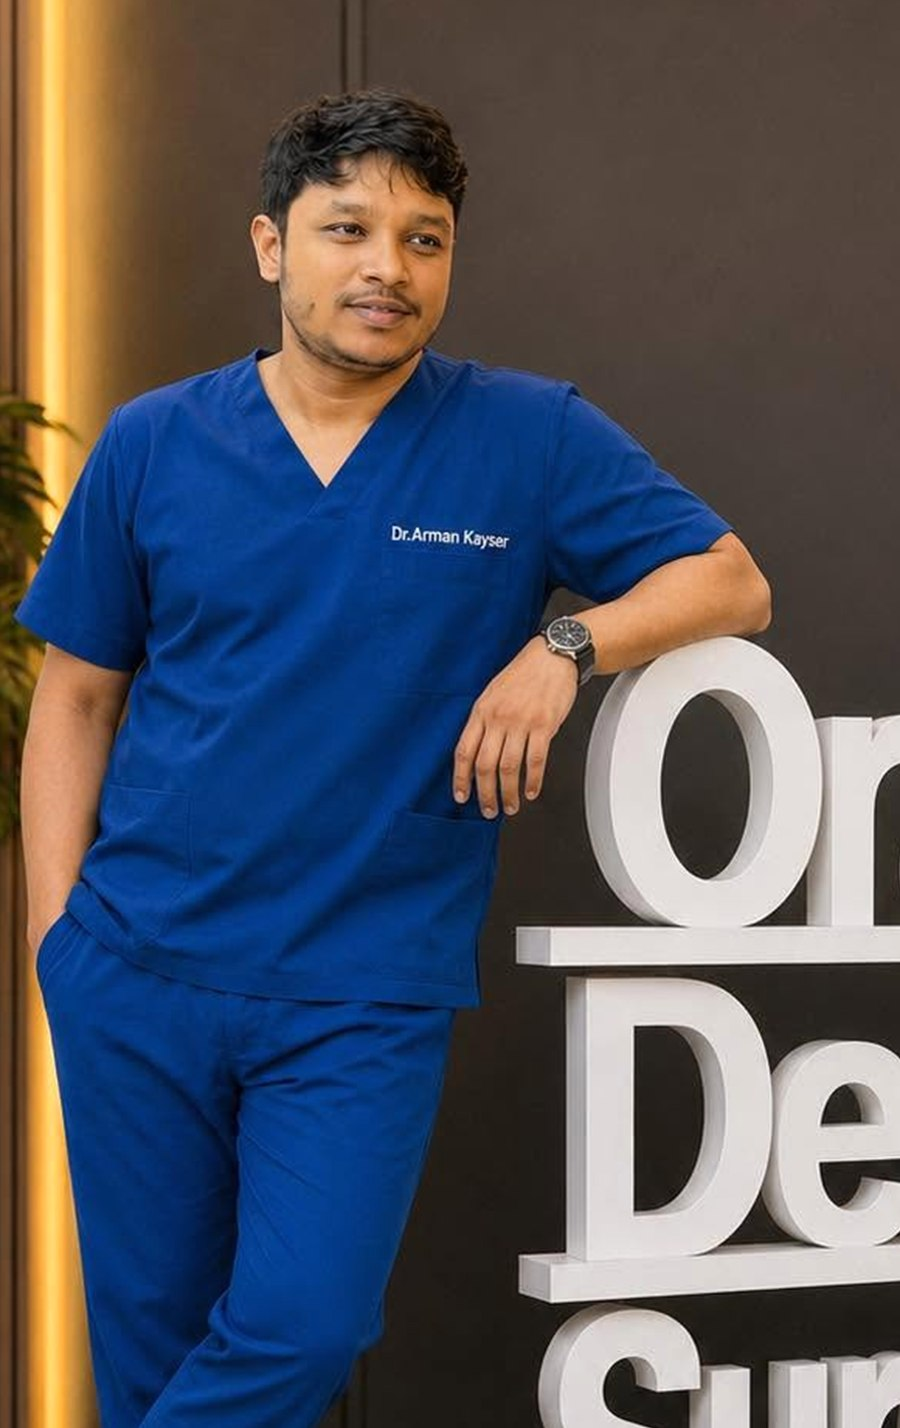
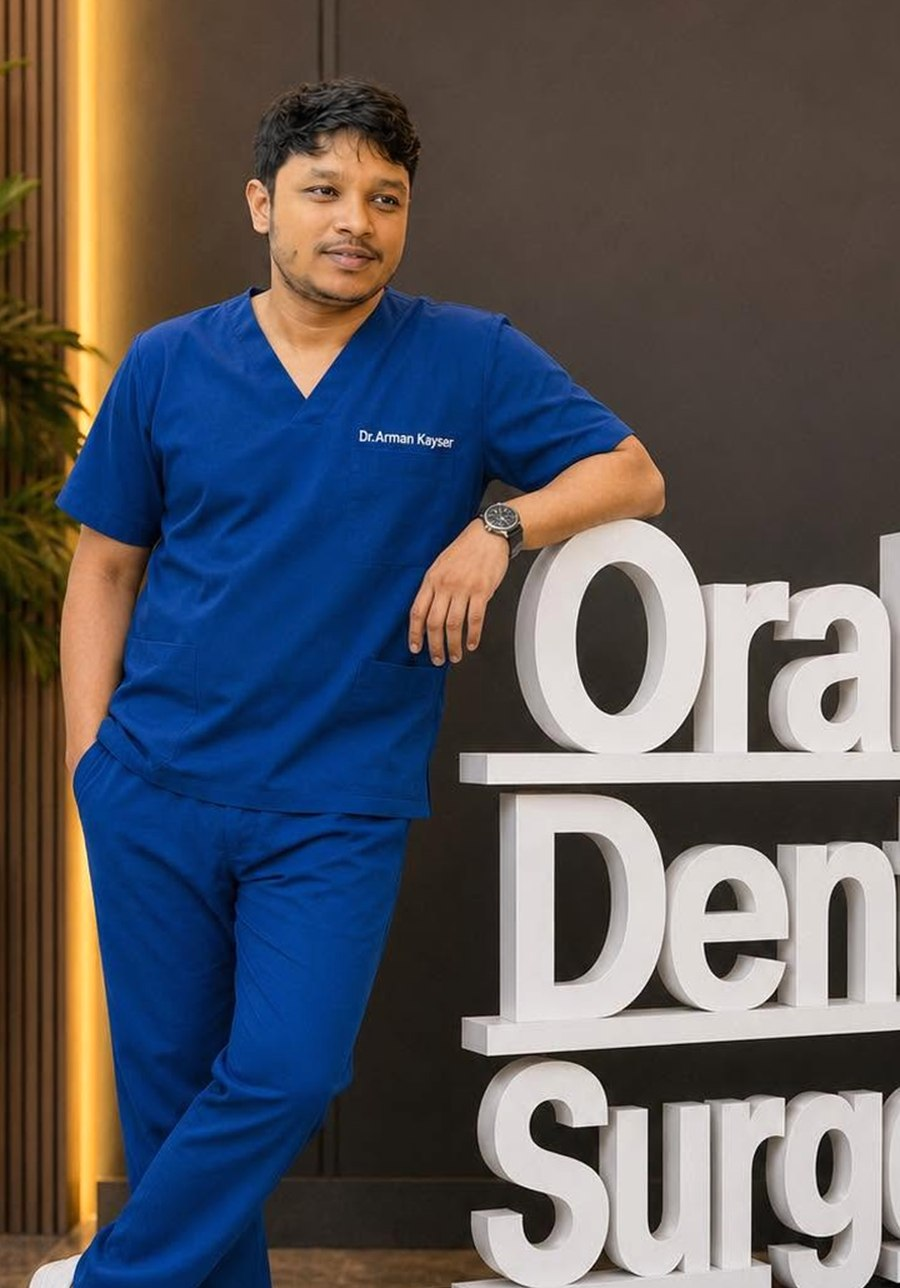
Phone hero as one image-led block; stop repeating the photo back to back
Third attempt at this hero, and the first two failed for opposite reasons: a
white card climbing over the photograph hid it and read as bulk, then a card
sitting below it disconnected the two and the picture stopped being a hero at
all. Now the photograph fills the block and the words sit over its lower edge on
a gradient — one thing, the way a magazine cover works. Eyebrow and headline in
white over the scrim; the supporting line is the first thing to go at 390px.

The photograph is the scrubs shot with the signage, which is the only image here
with a second subject and real depth — a face cropped to the shoulders is a
portrait, not a scene, which is why the headshot version looked one-sided.

And I had put that same photograph in the hero while the section directly below
still used it, so the first two screens showed the same picture twice. That
section is the white coat now — different outfit, different room.

Also fixed there: the intro portrait was pinned to a 180-240px letterbox with
the crop held high to protect the hairline, which showed his hair and forehead
with the face cut off underneath. It gets portrait proportions now, 320-400px,
and the crop lands on his face.

diff --git a/src/sections/Hero.css b/src/sections/Hero.css
@@ -1,11 +1,12 @@
 /* ═══════════════════════════════════════════════════════════════════════════
    HERO — phone layout first, desktop composition in the min-width query.
 
-   Phone: photograph, then words. Nothing overlaps. An earlier version climbed a
-   white card back over the photo, which meant a heavy block of type sitting on
-   top of the one image that has to do the selling — it hid the photograph and
-   read as bulk. Here the picture is left alone and the copy sits beneath it on
-   the page surface, so both are legible in one glance.
+   Phone: one image-led unit. The photograph fills the block and the words sit
+   over its lower edge on a gradient, the way a magazine cover works — so the
+   hero reads as a single thing rather than a picture with a slab of type stuck
+   to it. Two earlier attempts got this wrong: a white card climbing over the
+   photo (heavy, hid the image) and a card sitting below it (disconnected, and
+   the picture stopped being a hero).
 
    From 900px: the copy becomes the white circle overlaid on a full-bleed band,
    with the navy About badge straddling its edge and the rating card
@@ -13,7 +14,9 @@
    ══════════════════════════════════════════════════════════════════════════ */
 
 .hero {
-  --hero-band: min(96vw, 400px);
+  /* Tall enough to be the whole first impression, short enough that the yellow
+     band peeks in under it and the page reads as scrollable. */
+  --hero-band: min(132vw, 560px);
   --hero-curve: var(--r-curve);
 
   position: relative;
@@ -50,8 +53,28 @@
   object-position: 50% 22%;
 }
 
-/* Nothing sits over the photograph on a phone, so it needs no scrim there. */
-.hero__scrim { display: none; }
+/* Type sits on the photograph's lower half, so it needs a foot to stand on.
+   Weighted to the bottom and transparent by the midpoint, which keeps his face
+   in clear light while the words below stay readable. */
+.hero__scrim {
+  position: absolute;
+  inset: 0;
+  background: linear-gradient(
+    to top,
+    rgba(var(--navy-rgb), 0.92) 0%,
+    rgba(var(--navy-rgb), 0.72) 22%,
+    rgba(var(--navy-rgb), 0.18) 48%,
+    rgba(var(--navy-rgb), 0) 68%
+  );
+}
+
+/* Anchored to the foot of the photograph rather than following it in the flow,
+   so image and words are one block. */
+.hero__overlay {
+  position: absolute;
+  inset: auto 0 0 0;
+  padding-bottom: clamp(26px, 7vw, 40px);
+}
 
 .hero__overlay > .container { width: 100%; }
 
@@ -62,27 +85,22 @@
   margin-inline: auto;
 }
 
-/* No card on a phone — just type on the page. The bottom padding clears the
-   yellow band, which tucks 30px up behind the end of this section; measured, it
-   was overlapping the last line of the lede by 26px. */
+/* No card on a phone — type directly on the photograph. */
 .hero__circle {
   display: grid;
-  gap: 12px;
+  gap: 10px;
   justify-items: start;
-  padding: 26px 0 46px;
 }
 
 .hero__title {
-  font-size: clamp(1.65rem, 6.8vw, 2.125rem);
-  line-height: 1.12;
+  font-size: clamp(1.7rem, 7.2vw, 2.25rem);
+  line-height: 1.1;
+  color: var(--white);
 }
 
-.hero__lede {
-  font-size: var(--fs-sm);
-  line-height: 1.5;
-  color: var(--body);
-  max-width: 34ch;
-}
+/* The headline carries the message at this size; the supporting line is the
+   first thing to go when the screen is 390px wide. */
+.hero__lede { display: none; }
 
 /* The shared eyebrow is sized for a full-width section; here it has to fit
    "Trusted dental care in Shyamoli" on one line inside a 390px card, so the
@@ -92,6 +110,10 @@
   max-width: 100%;
   padding: 7px 13px 7px 9px;
   gap: 7px;
+  background: rgba(255, 255, 255, 0.16);
+  color: var(--white);
+  backdrop-filter: blur(6px);
+  box-shadow: none;
   font-size: var(--fs-xs);   /* 13px floor — uppercase at 1px tracking needs it */
   line-height: 1.3;
   text-wrap: balance;
@@ -195,6 +217,8 @@
     pointer-events: auto;
   }
 
+  .hero__lede { display: grid; }
+
   .hero__circle {
     padding: clamp(28px, 5vw, 56px);
     border-radius: 50%;
@@ -217,6 +241,7 @@
   .hero__title {
     font-size: clamp(1.6rem, calc(var(--hero-circle) * 0.108), 3.375rem);
     line-height: var(--lh-tight);
+    color: var(--ink);
   }
 
   .hero__lede {
@@ -225,6 +250,10 @@
   }
 
   .hero__circle .eyebrow {
+    background: var(--white);
+    color: var(--ink);
+    backdrop-filter: none;
+    box-shadow: var(--shadow-sm);
     justify-self: center;
     padding: 8px 16px 8px 11px;
     gap: 8px;

diff --git a/src/sections/AboutIntro.css b/src/sections/AboutIntro.css
@@ -18,14 +18,14 @@
 
 .about-intro__portrait {
   width: 100%;
-  /* A 3/4 frame costs a third of a phone screen for one photograph. With both
-     dimensions set the inline aspect-ratio stops applying and object-fit does
-     the cropping instead — held high in the frame so it never takes his head. */
-  height: clamp(180px, 46vw, 240px);
-  /* His hairline sits at ~7% of this crop. At 12% the mobile letterbox clipped
-     the top of his head by a few pixels; 6% keeps clear headroom at every box
-     ratio this photo gets rendered into. */
-  object-position: 50% 6%;
+  /* Portrait, not letterbox. At 180-240px this squeezed a standing photograph
+     into a 2:1 strip and, held high to protect the hairline, showed his hair
+     and forehead with the face cut off below. A photograph of the dentist is
+     worth the height on the one page that introduces him. */
+  height: clamp(320px, 84vw, 400px);
+  /* Hairline sits at ~7% of the file; this leaves clear headroom above it and
+     lands the crop on his face rather than his scalp. */
+  object-position: 50% 8%;
   border-radius: var(--r-sm) var(--r-xl) var(--r-xl);
 }
 
